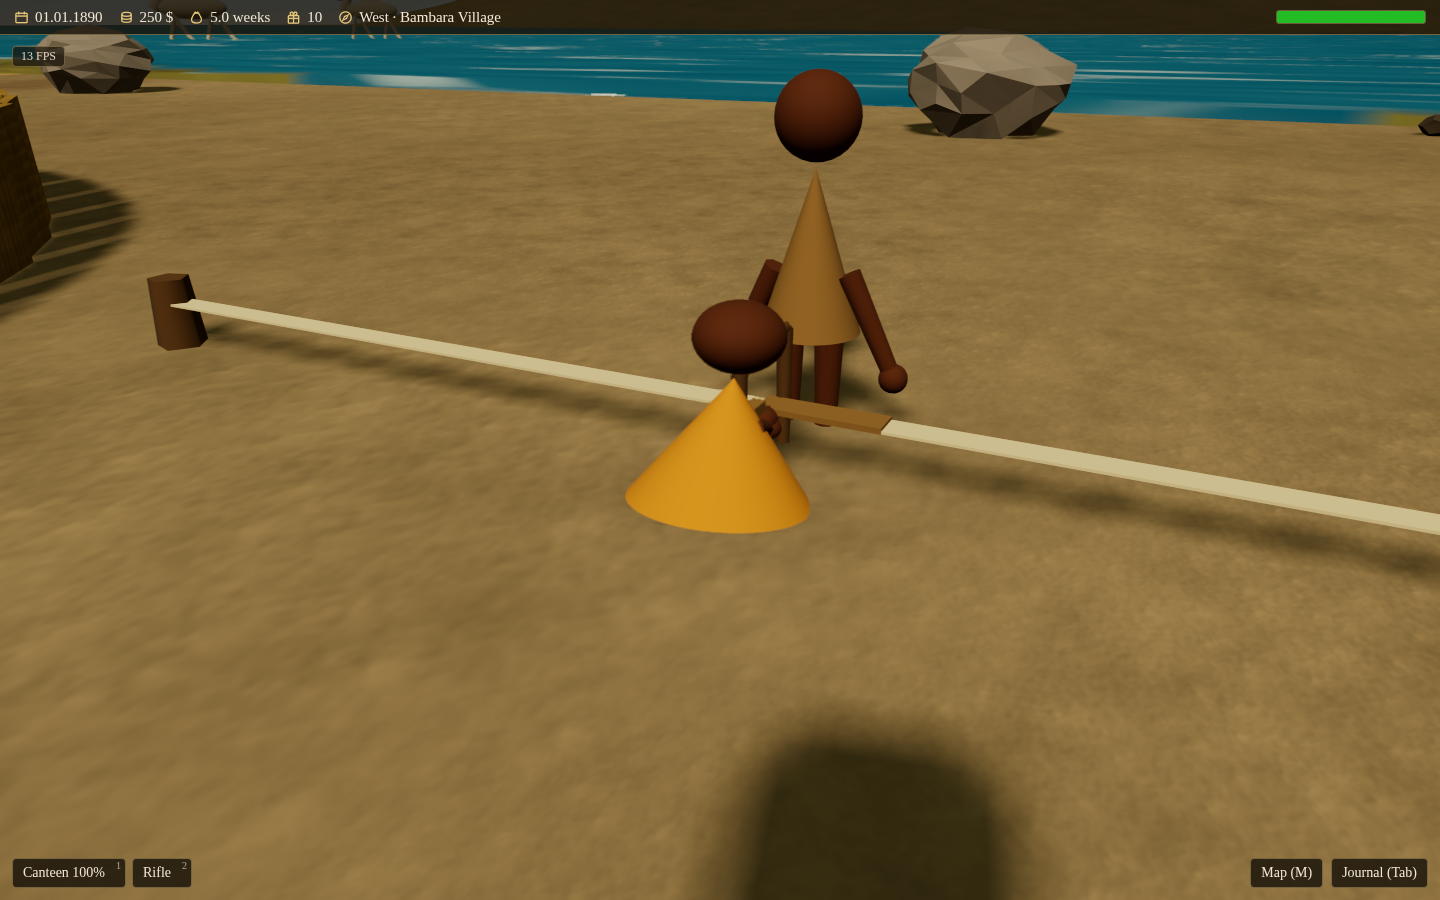
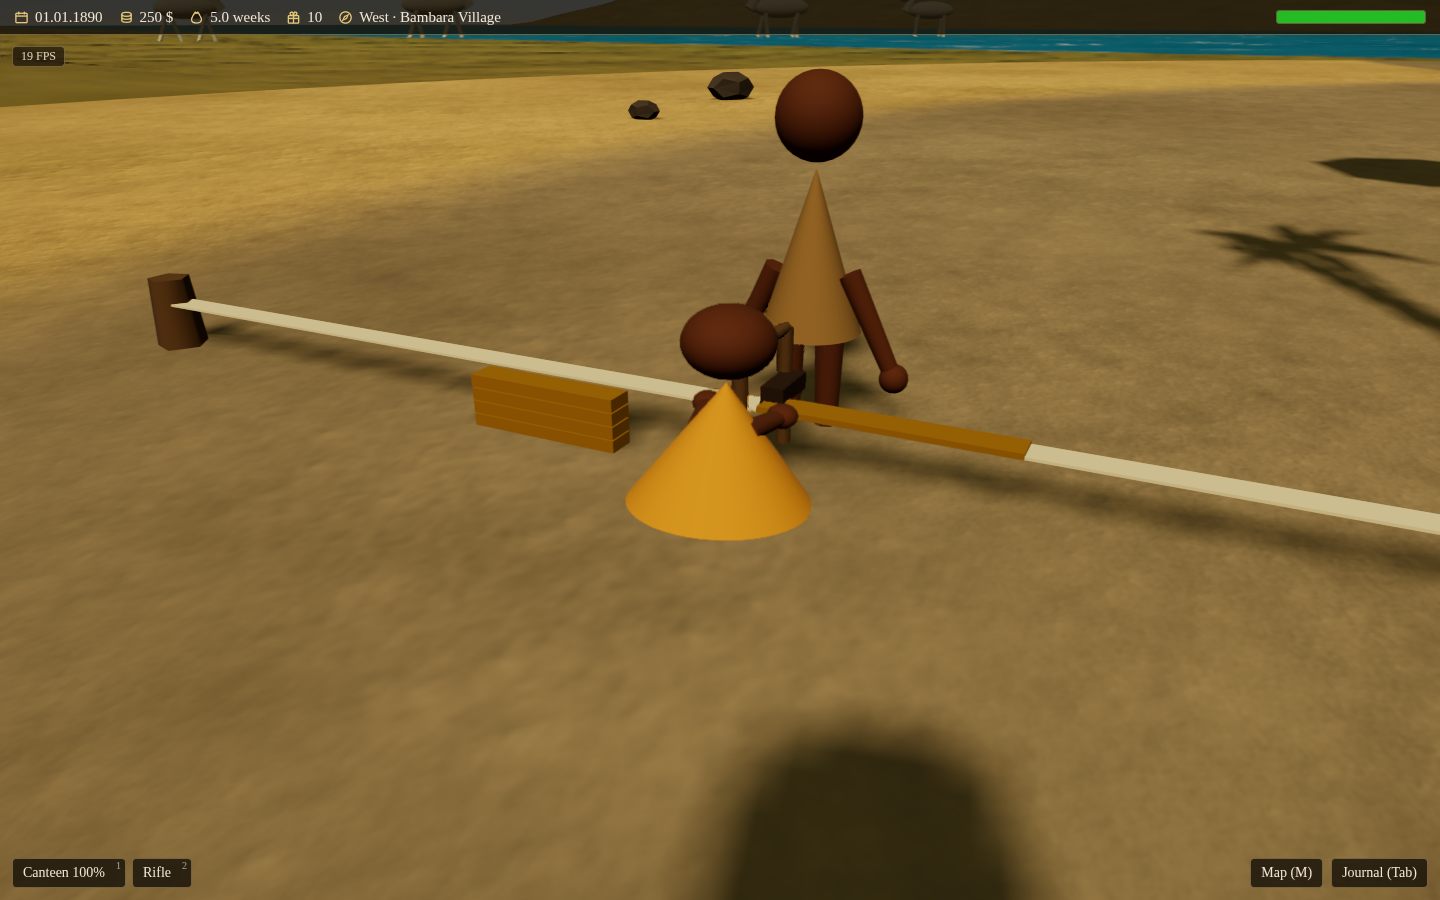
Take the widest view the plan holds, and keep the loom by the water
Two things the first cut got wrong. The seat could drift inland, because the
sight line to the river reads solids and not the ground, so a dune between the
station and the water passed it and the frame came back with the river at the
horizon; the seat is now held no farther back than the plan meant it to stand.
And the plaza question was binary, so a plan without a full metre fell back to
the first seat that cleared everything else rather than the best one going. It
is now measured as a width and maximised.

Two Bambara plans still hold no metre-wide line with the loom kept near the
water. That is where their dwellings stand, not where the seat could go.

diff --git a/src/scenes/place/loom.ts b/src/scenes/place/loom.ts
@@ -68,10 +68,17 @@ const SEAT_RADIUS_STEP = 0.5
 /** The thin corridor the seat's view of the water is sampled through. */
 const SIGHT_HALF_WIDTH = 0.25
 
+/** The corridor of open ground the plaza must look at the seat through — a
+ *  gap between two huts is not a view (work-order 1190). */
+export const PLAZA_SIGHT_HALF_WIDTH = 1
+
+/** How much farther from the water than the nominal spot a seat may sit. */
+const PLAZA_INLAND_SLACK = 4
+
 /** Degrees between seats in the sweep that demands a view from the plaza. */
 const PLAZA_SWEEP_DEGREE_STEP = 2
-/** Every nth candidate radius in that sweep. */
-const PLAZA_SWEEP_RADIUS_EVERY = 2
+/** Metres between candidate radii in that sweep. */
+const PLAZA_SWEEP_RADIUS_STRIDE = 1
 
 export interface LoomGeometry {
   /** Metres from the seat to each stake — half the stretched warp. */
@@ -85,6 +92,8 @@ export interface LoomPlacement {
   bank: PlaceRiverBank | null
   /** Where the station belongs when the settlement leaves it the room. */
   nominal: readonly [number, number]
+  /** How far the nominal spot stands back from the waterline, in metres. */
+  nominalWaterOff: number
   /** The walkable radius; the whole station stays inside it. */
   walkRadius: number
   /** Ground a body of radius `r` can stand on: clear of every solid, on the
@@ -93,9 +102,10 @@ export interface LoomPlacement {
   /** Whether nothing solid stands between two points — the seat's view of the
    *  water is asked as a corridor, so a hut beside the line does not hide it. */
   sightClear: (from: BankPoint, to: BankPoint, halfWidth: number) => boolean
-  /** Whether some stand on the settlement's plaza looks at this seat over open
-   *  ground (work-order 1190). Settlements without a plaza answer true. */
-  plazaSight: (seat: BankPoint) => boolean
+  /** How wide a corridor of open ground the settlement's plaza looks at this
+   *  seat through — the widest over every stand on the plaza, 0 where none sees
+   *  it at all (work-order 1190). Settlements without a plaza answer Infinity. */
+  plazaView: (seat: BankPoint) => number
   /** Distance from a spot to the NEAREST place a child speaks. The loom's own
    *  direction words must never arrive mixed with the children's (688 §1, §6),
    *  so this is the same measure the dig sites and the water path are held to. */
@@ -242,8 +252,23 @@ function stationHolds(station: LoomStation, p: LoomPlacement, wantPlazaSight: bo
   // the water — that stand is one of the places the children speak from, so a
   // sight line drawn to it would be a line the loom is already held 10 m away
   // from, and it would answer about a stretch of water she is not looking at.
-  if (p.bank && !p.sightClear(station.weaver, waterAhead(station.weaver, p.bank), SIGHT_HALF_WIDTH)) {
-    return false
+  //
+  // AND FROM WHERE THE HELPER WORKS, not only from her seat (work-order 1190).
+  // The picture the water claim is judged on is taken over the HELPER's
+  // shoulder as he walks out along the warp, so a seat that keeps the river in
+  // her view and loses it in his is a seat that fails the frame — which is
+  // exactly what the first plaza-visible seat did.
+  if (p.bank) {
+    for (const stand of [station.weaver, station.helperHome]) {
+      if (!p.sightClear(stand, waterAhead(stand, p.bank), SIGHT_HALF_WIDTH)) return false
+    }
+    // AND NO FARTHER FROM THE WATER THAN THE PLAN MEANT IT TO BE. The sight
+    // line above reads SOLIDS, not the ground: a dune between the seat and the
+    // river passes it and still hides the water in the picture, which is how a
+    // seat moved inland for the plaza's sake arrived with the river at the
+    // horizon and nothing blue where the frame reads for it.
+    const off = p.bank.distance - (station.weaver.x * p.bank.nx + station.weaver.z * p.bank.nz)
+    if (off > p.nominalWaterOff + PLAZA_INLAND_SLACK) return false
   }
   // AND THE PLAZA SHOULD SEE THE WORK (work-order 1190). The station being
   // readable from up close was point 1183; the user's criterion was the plaza,
@@ -256,7 +281,7 @@ function stationHolds(station: LoomStation, p: LoomPlacement, wantPlazaSight: bo
   // plaza over a metre-wide corridor, and a village with NO loom teaches
   // nothing at all — so the caller sweeps again without this rule and the
   // station says which sweep found it.
-  if (wantPlazaSight && !p.plazaSight(station.weaver)) return false
+  if (wantPlazaSight && p.plazaView(station.weaver) < PLAZA_SIGHT_HALF_WIDTH) return false
   return true
 }
 
@@ -294,15 +319,29 @@ export function placeLoom(p: LoomPlacement): LoomStation | null {
     if (baseRadius + d <= maxRadius) radii.push(baseRadius + d)
   }
 
+  /** The candidate radii at a given stride, nearest the nominal one first. */
+  const radiiAt = (stride: number): number[] => {
+    const out = [baseRadius]
+    for (let d = stride; d <= maxRadius; d += stride) {
+      if (baseRadius - d >= 2) out.push(baseRadius - d)
+      if (baseRadius + d <= maxRadius) out.push(baseRadius + d)
+    }
+    return out
+  }
+
   /** One sweep out from the nominal bearing, nearest first. */
-  const sweep = (degreeStep: number, radiusEvery: number, wantPlazaSight: boolean): LoomStation | null => {
+  const sweep = (degreeStep: number, radiusStride: number, wantPlazaSight: boolean): LoomStation | null => {
+    // THE STRIDE IS TAKEN ON THE SEQUENCE, NOT ON THE ARRAY. Skipping every nth
+    // entry of `radii` would drop only the INWARD ones — the list alternates in,
+    // out, in, out — and the search would drift away from the river without ever
+    // saying so. It cost a frame in which the water had left the picture.
+    const swept = radiusStride === SEAT_RADIUS_STEP ? radii : radiiAt(radiusStride)
     for (let step = 0; step <= SEAT_SWEEP_DEGREES; step += degreeStep) {
       for (const sign of step === 0 ? [1] : [-1, 1]) {
         const a = nominalAngle + sign * step * (Math.PI / 180)
         const fx = p.bank ? p.bank.fx : -Math.sin(a)
         const fz = p.bank ? p.bank.fz : Math.cos(a)
-        for (let i = 0; i < radii.length; i += radiusEvery) {
-          const r = radii[i]
+        for (const r of swept) {
           const seat = { x: Math.cos(a) * r, z: Math.sin(a) * r }
           // Across the warp, toward the water — or straight outward where the
           // settlement stands on no river and there is no water to face.
@@ -318,12 +357,33 @@ export function placeLoom(p: LoomPlacement): LoomStation | null {
     return null
   }
 
-  // THE PLAZA'S VIEW IS ASKED FIRST AND GIVEN UP LAST (work-order 1190). The
-  // first sweep demands it and strides COARSELY — a seat the village can see
-  // across open ground is a feature of the plan's open lanes, not of a
-  // centimetre, so a wide stride finds one wherever one exists, and the fine
-  // search stays as cheap as it was. Only a plan that holds no such seat at all
-  // falls through to the sweep that does not ask; the station carries which of
-  // the two found it.
-  return sweep(PLAZA_SWEEP_DEGREE_STEP, PLAZA_SWEEP_RADIUS_EVERY, true) ?? sweep(1, 1, false)
+  // THE PLAZA'S VIEW IS ASKED FIRST, AND WHERE IT CANNOT BE HAD IN FULL THE
+  // WIDEST ONE GOING IS TAKEN (work-order 1190). The first seat the plaza sees
+  // through a full metre wins outright, nearest the nominal spot first. Where
+  // no plan holds one — and two shipped Mandinka plans do not — the answer is
+  // not "anywhere": it is the seat with the widest view of the ones that clear
+  // everything else, which is the user's criterion served as far as the plan
+  // allows. Only a plan with no valid seat at all falls to the fine sweep.
+  const seen = sweep(PLAZA_SWEEP_DEGREE_STEP, PLAZA_SWEEP_RADIUS_STRIDE, true)
+  if (seen) return seen
+
+  let widest: { station: LoomStation; view: number } | null = null
+  for (let step = 0; step <= SEAT_SWEEP_DEGREES; step += PLAZA_SWEEP_DEGREE_STEP) {
+    for (const sign of step === 0 ? [1] : [-1, 1]) {
+      const a = nominalAngle + sign * step * (Math.PI / 180)
+      const fx = p.bank ? p.bank.fx : -Math.sin(a)
+      const fz = p.bank ? p.bank.fz : Math.cos(a)
+      for (const r of radiiAt(PLAZA_SWEEP_RADIUS_STRIDE)) {
+        const seat = { x: Math.cos(a) * r, z: Math.sin(a) * r }
+        const ax = p.bank ? p.bank.nx : Math.cos(a)
+        const az = p.bank ? p.bank.nz : Math.sin(a)
+        const station = loomAround(seat, fx, fz, ax, az, p.geometry, onRiverAxis)
+        if (!stationHolds(station, p, false)) continue
+        const view = p.plazaView(station.weaver)
+        if (!widest || view > widest.view) widest = { station, view }
+      }
+    }
+  }
+  if (widest) return { ...widest.station, seenFromPlaza: false }
+  return sweep(1, SEAT_RADIUS_STEP, false)
 }

diff --git a/src/scenes/place/loom.test.ts b/src/scenes/place/loom.test.ts
@@ -32,19 +32,20 @@ function shippedLooms() {
 }
 
 /**
- * Whether a stand on the plaza looks at a seat over open ground — recomputed
- * here from the finished layout rather than read back from the placement, so
- * the rule is checked and not merely echoed (work-order 1190).
+ * The widest corridor of open ground any stand on the plaza looks at the loom
+ * through — recomputed here from the finished layout rather than read back from
+ * the placement, so the rule is checked and not merely echoed (work-order 1190).
  *
- * The station's OWN bodies are left out: the warp, its stakes and the weaver
- * are what the line is drawn to, and they stand at the far end of it.
+ * The station's OWN bodies are left out: the warp, its stakes and the weaver are
+ * what the line is drawn to, and they stand at the far end of it.
  */
-function seenFromPlaza(layout: ReturnType<typeof buildLayout>): boolean {
+function plazaViewOf(layout: ReturnType<typeof buildLayout>): number {
   const loom = layout.loom
-  if (!loom) return false
+  if (!loom) return 0
   const solids = layout.colliders.filter(
     (c) => Math.hypot(c.x - loom.seat.x, c.z - loom.seat.z) > 4,
   )
+  let widest = 0
   for (const ring of [0, 1.5, 3, 4.5, 6]) {
     for (let k = 0; k < (ring ? 8 : 1); k++) {
       const a = (k / 8) * Math.PI * 2
@@ -53,31 +54,40 @@ function seenFromPlaza(layout: ReturnType<typeof buildLayout>): boolean {
       const dist = Math.hypot(loom.weaver.x - x, loom.weaver.z - z)
       if (dist < 8) continue
       if (!standingClear(layout.colliders, x, z, WALKER_RADIUS)) continue
-      let open = true
-      for (let step = 0; step <= 64; step++) {
-        const t = (step / 64) * ((dist - 2) / dist)
-        const px = x + (loom.weaver.x - x) * t
-        const pz = z + (loom.weaver.z - z) * t
-        if (!standingClear(solids, px, pz, 1)) { open = false; break }
+      for (const half of [0.25, 0.5, 0.75, 1]) {
+        if (half <= widest) continue
+        let open = true
+        for (let step = 0; step <= 64; step++) {
+          const t = (step / 64) * ((dist - 2) / dist)
+          const px = x + (loom.weaver.x - x) * t
+          const pz = z + (loom.weaver.z - z) * t
+          if (!standingClear(solids, px, pz, half)) { open = false; break }
+        }
+        if (open) widest = half
       }
-      if (open) return true
     }
   }
-  return false
+  return widest
 }
 
 describe('the village plaza sees the loom (work-order 1190)', () => {
-  it('the Bambara plaza looks at the station over open ground, on every shipped seed', () => {
+  it('the Bambara plaza always looks at the station over some open ground', () => {
+    // NOT EVERY PLAN HOLDS A FULL METRE. Seeds 1337 and 394349866 do not: with
+    // the loom kept near the water, as the frame that judges it requires, their
+    // dwellings leave the plaza no wider line. The placement then takes the
+    // WIDEST view going rather than the first seat that clears everything else,
+    // and what remains is a dwelling-placement question rather than a seat one.
+    // The floor asserted here is that no plan is seated blind.
     const blind = shippedLooms()
       .filter(({ id }) => id.startsWith('bambara'))
-      .filter(({ layout }) => !seenFromPlaza(layout))
+      .filter(({ layout }) => plazaViewOf(layout) <= 0)
       .map(({ id, seed }) => `${id}/${seed}`)
     expect(blind).toEqual([])
   })
 
-  it('a station the placement calls seen is one the plaza really sees', () => {
+  it('a station the placement calls seen is one the plaza really sees, a full metre wide', () => {
     const lying = shippedLooms()
-      .filter(({ layout }) => layout.loom?.seenFromPlaza === true && !seenFromPlaza(layout))
+      .filter(({ layout }) => layout.loom?.seenFromPlaza === true && plazaViewOf(layout) < 1)
       .map(({ id, seed }) => `${id}/${seed}`)
     expect(lying).toEqual([])
   })
@@ -114,7 +124,8 @@ describe('the loom lies on the river’s axis (work-order 1157 item 4)', () => {
       walkRadius: 30,
       free: () => true,
       sightClear: () => true,
-      plazaSight: () => true,
+      nominalWaterOff: Infinity,
+      plazaView: () => Infinity,
       toChildren: () => Infinity,
       waterPathHead: null,
       onWaterLane: () => false,
@@ -145,7 +156,8 @@ describe('the loom lies on the river’s axis (work-order 1157 item 4)', () => {
       walkRadius: 30,
       free: wedge,
       sightClear: () => true,
-      plazaSight: () => true,
+      nominalWaterOff: Infinity,
+      plazaView: () => Infinity,
       toChildren: () => Infinity,
       waterPathHead: null,
       onWaterLane: () => false,

diff --git a/src/scenes/place/layout.ts b/src/scenes/place/layout.ts
@@ -8,7 +8,7 @@ import { placeById } from '../../world/geo'
 import { mulberry32 } from '../../world/noise'
 import { REGION_PLACE_STYLES, VILLAGE_PLANS, type RegionPlaceStyle } from './regionStyles'
 import { LOOM_SPOT, PORT_TALKERS, portAdultStations, childPlayGround, villageAdultStations, villageKeepClearSpots, villageLifeProps, villageLifeFootprints, type PlayGround } from './lifeSpots'
-import { placeLoom, WARP_BODY_RADIUS, WEAVER_BODY_RADIUS, type LoomStation } from './loom'
+import { placeLoom, PLAZA_SIGHT_HALF_WIDTH, WARP_BODY_RADIUS, WEAVER_BODY_RADIUS, type LoomStation } from './loom'
 import { boxCollider, nudgeToFree, spawnPointFree, standingClear, PLAYER_RADIUS, WALKER_RADIUS, CHIEF_BODY_RADIUS, type Collider } from './collision'
 import { CHIEF_HUT, MARKET_HUT, dwellingRoofProfile, hutRoofProfile, roofStandOff } from './roofClearance'
 import { windingPoints, laneSlots, closestOnPolyline, bendAround, type LaneSlot } from './lanePlan'
@@ -762,8 +762,8 @@ const PLAZA_SIGHT_STANDS = 8
 const PLAZA_SIGHT_MIN_DISTANCE = 8
 /** The station's own ground at the far end, which is not sight line. */
 const PLAZA_SIGHT_STATION_GROUND = 2
-/** A metre either side of the line — a gap between two huts is not a view. */
-const PLAZA_SIGHT_HALF_WIDTH = 1
+/** The widths a view is measured at, narrowest first. */
+const PLAZA_SIGHT_WIDTHS = [0.25, 0.5, 0.75, 1] as const
 /** How finely that line is walked; wider is stricter, and far cheaper. */
 const PLAZA_SIGHT_SAMPLE = 0.2
 
@@ -2144,6 +2144,9 @@ export function buildLayout(placeId: string, seed: number): PlaceLayout {
     loom = placeLoom({
       bank,
       nominal: LOOM_SPOT,
+      nominalWaterOff: bank
+        ? bank.distance - (LOOM_SPOT[0] * bank.nx + LOOM_SPOT[1] * bank.nz)
+        : Infinity,
       walkRadius: radius - WALKER_RADIUS,
       free: (x, z, r) =>
         Math.hypot(x, z) < radius - r &&
@@ -2166,16 +2169,23 @@ export function buildLayout(placeId: string, seed: number): PlaceLayout {
       // check walks — and one open line is enough. The corridor is a metre to
       // each side: the shipped seat passed a 0.15 m line through a gap between
       // two dwellings, and what arrived in the frame was two figures, not a loom.
-      plazaSight: (seat) => {
+      plazaView: (seat) => {
+        let widest = 0
         for (const stand of plazaStands) {
           const dist = Math.hypot(seat.x - stand.x, seat.z - stand.z)
           if (dist < PLAZA_SIGHT_MIN_DISTANCE) continue
           // The last stretch is the station's own ground, not the sight line.
           const t = (dist - PLAZA_SIGHT_STATION_GROUND) / dist
           const to = { x: stand.x + (seat.x - stand.x) * t, z: stand.z + (seat.z - stand.z) * t }
-          if (clearCorridor(colliders, stand, to, PLAZA_SIGHT_HALF_WIDTH, PLAZA_SIGHT_SAMPLE)) return true
+          // Widened until it no longer fits: the placement wants the BEST view a
+          // plan holds, not only whether the full metre is there.
+          for (const half of PLAZA_SIGHT_WIDTHS) {
+            if (half <= widest) continue
+            if (clearCorridor(colliders, stand, to, half, PLAZA_SIGHT_SAMPLE)) widest = half
+          }
+          if (widest >= PLAZA_SIGHT_HALF_WIDTH) return widest
         }
-        return false
+        return widest
       },
       toChildren,
       waterPathHead: waterPath ? waterPath.head : null,
